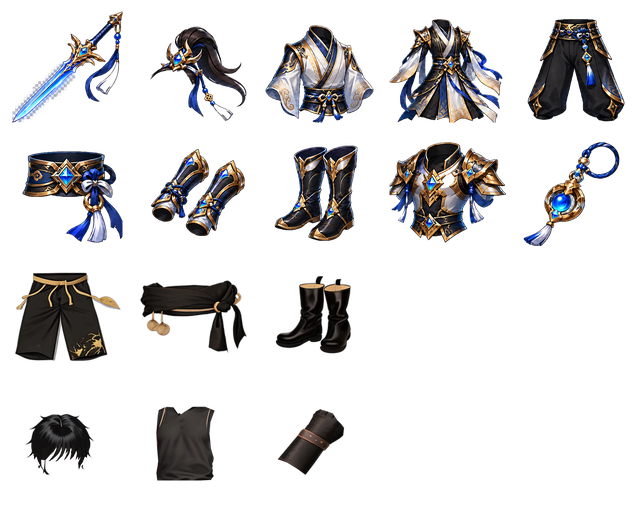
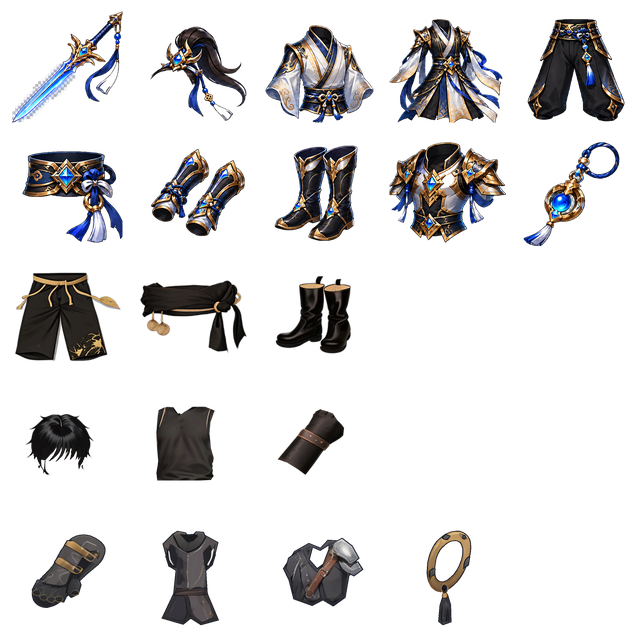
chore: lgo autopilot checkpoint character-hub-v40 - character-hub-vo-starter-four-content-v40
Status: CONTINUE
Phase: character-hub-item-artwork
Next action: Rà độ rõ/nét/ánh sáng toàn10icon theo demo ở ô nhỏ; tiếp tục Skill demo alignment và Hỏa Tuyến/Thanh Tẩy qua base chung, không sửa actor/gameplay.
Reason: Bốn nội dung mới đã có trong Player, đủ10exact Vo maleLv1; đã audit3viewport và kiểm closure. Chưa nghiệm thu toàn bộ mỹ thuật.

Validation:
- 313/313 graphics evidence revalidated
- 69/69 Python fresh closure plus3guards
- 132capturedPNG verified;15images reviewed across v40
- 16prior modules RGBA exact;10bindings;PNG248683/250000
- PortableZIP/hash/PNG replay verified;no new build in closure

diff --git a/client/Unity/Assets/Game/Tests/EditMode/TwoDCharacterRuntimeStateTests.cs b/client/Unity/Assets/Game/Tests/EditMode/TwoDCharacterRuntimeStateTests.cs
@@ -144,7 +144,7 @@ namespace LinhGioi.Tests.EditMode
             {
                 var host = new GameObject("reviewed starter item art test");
                 var scene = CongDongLamMap01AArtPreview.Attach(TwoDOnboardingController.Attach(host));
-                foreach (var slot in new[] { "lower_garment", "waist", "boots", "head_hair", "inner_top", "arm_guard" })
+                foreach (var slot in new[] { "lower_garment", "waist", "boots", "head_hair", "inner_top", "arm_guard", "main_weapon", "outer_tunic", "light_armor", "accessory" })
                 {
                     Assert.That(scene.ActiveEquipmentClassId, Is.EqualTo("vo"));
                     Assert.That(scene.CharacterGender, Is.EqualTo("male"));
@@ -187,7 +187,7 @@ namespace LinhGioi.Tests.EditMode
                     {
                         Assert.That(scene.GetMap01ACharacterEquipmentIconSprite(slot), Is.Not.Null,
                             "Source slot illustrations remain available for registration, not deleted.");
-                        var expected = classId == "vo" && new[] { "lower_garment", "waist", "boots", "head_hair", "inner_top", "arm_guard" }.Contains(slot);
+                        var expected = classId == "vo" && new[] { "lower_garment", "waist", "boots", "head_hair", "inner_top", "arm_guard", "main_weapon", "outer_tunic", "light_armor", "accessory" }.Contains(slot);
                         var content = scene.GetEquipmentThumbnailSprite(slot);
                         Assert.That(content != null, Is.EqualTo(expected), classId + "/" + slot);
                         if (expected) Assert.That(content, Is.Not.SameAs(scene.GetMap01ACharacterEquipmentIconSprite(slot)));
@@ -450,7 +450,7 @@ namespace LinhGioi.Tests.EditMode
                 Assert.That(root.Q("Map01A Character Hero Right Equipment Rail").style.width.value.value, Is.EqualTo(76));
                 foreach (var slot in scene.VoEquipmentSlotIds)
                 {
-                    var registered = new[] { "lower_garment", "waist", "boots", "head_hair", "inner_top", "arm_guard" }.Contains(slot)
+                    var registered = new[] { "lower_garment", "waist", "boots", "head_hair", "inner_top", "arm_guard", "main_weapon", "outer_tunic", "light_armor", "accessory" }.Contains(slot)
                         && scene.ActiveEquipmentClassId == "vo" && scene.CharacterGender == "male" && scene.GetEquipmentItemLevel(slot) == 1;
                     var content = scene.GetVoEquipmentThumbnailSprite(slot);
                     Assert.That(content != null, Is.EqualTo(registered), slot);
@@ -927,7 +927,7 @@ namespace LinhGioi.Tests.EditMode
                 {
                     var slotId = scene.VoEquipmentSlotIds[iconIndex];
                     var expectedIcon = scene.GetVoEquipmentThumbnailSprite(slotId);
-                    var registered = new[] { "lower_garment", "waist", "boots", "head_hair", "inner_top", "arm_guard" }.Contains(slotId)
+                    var registered = new[] { "lower_garment", "waist", "boots", "head_hair", "inner_top", "arm_guard", "main_weapon", "outer_tunic", "light_armor", "accessory" }.Contains(slotId)
                         && scene.ActiveEquipmentClassId == "vo" && scene.CharacterGender == "male" && scene.GetEquipmentItemLevel(slotId) == 1;
                     Assert.That(expectedIcon != null, Is.EqualTo(registered), slotId);
                     if (registered) Assert.That(expectedIcon, Is.Not.SameAs(scene.GetMap01ACharacterEquipmentIconSprite(slotId)));

diff --git a/docs/execution/NEXT-ACTION.md b/docs/execution/NEXT-ACTION.md
@@ -1,28 +1,28 @@
-# NEXT ACTION — Character Hub / nội dung trang bị đúng demo
+# NEXT ACTION — Character Hub / nội dung icon đúng demo
 
-## Active — hoàn thiện bốn nguồn Võ còn thiếu và độ rõ mỹ thuật theo nhóm
-- Giữ worktree `/Users/minhdc/Projects/LinhGioiOnline/.worktrees/character-hub-v22`, branch `codex/character-hub-v22`, upstream `feature/2d`; không reset/restore/đổi branch.
-- SID `S-LGO-SKILL-20260916-C9B4`, task `T-69b4b27c4b39`; check pause/recovery/job/claims trước batch. Không tác động phiên khác; kết thúc WAITING_USER/BLOCKED.
-- Canonical layout vẫn `redesign-v4-five-tabs`. Class demo là nguồn hình, không tự đổi ID/tên/cấp/chức năng gameplay hoặc actor/pose/wardrobe/renderer/frozen.
+## Active — đồng nhất chất lượng nguồn trên base hiện hành
+- Giữ worktree `/Users/minhdc/Projects/LinhGioiOnline/.worktrees/character-hub-v22`, branch `codex/character-hub-v22`, upstream `feature/2d`. Không reset, restore hoặc đổi branch/worktree.
+- SID `S-LGO-SKILL-20260916-C9B4`, task `T-69b4b27c4b39`. Trước mỗi batch kiểm pause/recovery/job/claims; không tác động process hoặc claim phiên khác. Cuối lượt dùng `v3.finish` và WAITING_USER/BLOCKED đúng kết quả.
+- Canonical UI vẫn `redesign-v4-five-tabs`; demo class là căn cứ hình ảnh, không tự đổi tên/cấp/chức năng gameplay. Actor/pose/wardrobe/renderer và frozen surfaces không thuộc batch.
 
-## v39 — ba nguồn đã loại cơ thể, cùng base và registry exact
-- Baseline1f90b2cd (v38) có3icon quần/đai/giày. Thêm tóc, áo trong, hộ uyển cho đúngVõ–male–Lv1; tổng6/10binding. Chưa thêm găng/áo ngoài/giáp/phụ kiện.
-- Sửa alpha trên nguồn384px v38: bỏ mặt/cổ giữa tóc; cắt tay và đai riêng khỏi áo; bỏ cẳng tay/ngón khỏi hộ uyển. Nguồn/mask/hash/rectdemo được giữ; không đưa nguyên bản bịloại vào game, không sinh ảnh mới.
-- Cuối batch giữ nguyên tọa độ native384, một viewport256→120trongcell128; không bbox-fit hoặc offsetUI. LượtPlayer đầu cho thấy thu0.875theonhóm là thừa nên đã bỏ, build/capture lần2 có trigger rõ. Găng còn họa tiết mặttrời lệchdemo; áo ngoài clone tạo tieslặp nên không nhập.
-- Packer hiện hành thêm encodingOPT-IN rgbStep4: sai sốtừngkênhRGB≤2/255, alpha/hình học không đổi; lặp lại không cộng dồn sai số. Default vẫn khôngnénRGB. Đây KHÔNG phải losslessRGB, KHÔNG claim13module cũ byte-identical.
-- Atlas640×512/218150byte,16module,6binding; trước là640×384/238156byte. Giữ budget250000. PNGnhỏ hơn không đồng nghĩaGPUmemory giảm vì heighttăng.
-- Fullgraphics313/313noskip;72Python (69repo+3sourceprobes). RED→GREEN: encoding/metadata, knownbodypixels và spriteavailability. Missing-state test dùng fixture rỗng rõ ràng, không mặc định tóc luôn thiếu khi catalog tăng.
-- Hai build/capture tronglượt; final là `player-reviewed/` và `runtime-reviewed/`,132ảnh. Đãxem12ảnh cuối:Nhânvật+3mónselected ở3viewport. Build cuối0error0warning; không cóinference/model mới.
-- Không thấy cắt/chồng hoặc notice sai trên3món. Tóc/vải còn tối trongôtablet; chưa owner/whole-art acceptance. Actor hiện hành không thay, không claimđồ trênngười đãkhớp toànbộdemo.
+## v40 — đã nhập đủ 10 icon Võ nam Lv1; chưa nghiệm thu toàn mỹ thuật
+- Bổ sung găng, áo ngoài, giáp vai/ngực bất đối xứng và vòng đồng tua đen theo cột Lv1 demo Võ nam. Không nhập lại các draft dính cơ thể, họa tiết mặt trời hoặc phụ kiện sai loại.
+- Bốn hình dựng rỗng native384, một lượt hoàn thiện chất liệu local, khóa alpha và bảo vệ viền ngoài từ hình dựng. Canvas384/viewport256→120 trong cell128 dùng chung; không scale/offset riêng trong UI.
+- Cộng sáu registration v39: đủ10/10 nội dung cho exact Võ–male–Lv1. Các class/giới/cấp khác không mượn; renderer trên người giữ nguyên, không claim toàn bộ đồ đang mặc khớp thumbnail.
+- Atlas640×640/248683byte, ngân sách250000 không tăng;20module. Toàn bộ16module và6binding cũ giữ nguyên. RGBround4 là encoding đã có, không phải lossless cho nguồn mới; alpha chính xác. Texture cao hơn không có nghĩa giảm bộ nhớ GPU.
+- Full graphics EditMode313/313 không fail/skip; test thiếu găng RED rồi GREEN sau nhập. Một Player build v40 có0error/0warning và132ảnh,44ảnh mỗi viewport.
+- Lượt trước xem10ảnh PC/mobile; closure đã xem thêm5ảnh tablet. Không thấy cắt/chồng mới hoặc notice thiếu ảnh ở bốn món; áo và tua đen vẫn nhỏ/tối trong ô tablet, hình mới còn góc cạnh và chưa đồng nhất toàn bộ nét/nền/độ sáng.
+- Closure chạy lại69/69 Python và3guard, kiểm132PNG/manifest/kích thước, replay/hash/source/ZIP. Không sinh nguồn, build hoặc capture lại khi input runtime không đổi.
+- Các chặn tool cũ và log RED vẫn giữ riêng làm lịch sử. Không suy ra phiên khác chỉ từ chuỗi finish/report event. Thao tác package đã hoàn tất qua đường công cụ hiện hành, không đổi cấu hình MCP.
 
 ## Bước tiếp theo
-1. Găng/áo ngoài phải redraw đúngdemo, không dínhbody hoặc ghépđai/ties; giáp/phụkiện phải đúngloạiđồLv1. Không dùng bảnbịloại đểlấp hoặc bỏ metadataownership.
-2. Cải thiện ánhsáng/độrõ cảbộ nguồn ở kíchthước hiểnthị, không phóngtừngicon bằngUI. Giữ nguồnfullprecision, chỉencodingatlas theo profile cókiểmsaisố.
-3. Tiếp tục itemId/class/slot/gender/level và thamchiếudemo bằng pipeline chung; bổsung biếnthể khác chỉkhi đúngnguồn. Bốnclass/giớikhác không mượniconVõ.
-4. Skill vẫn44/45sprite và nhiềuhình lệchdemo; HỏaTuyến/ThanhTẩy và bản sắcclass còn việc. Không coi sốlượngsprite hoặc testPASS lànghiệmthu.
+1. Audit độ rõ của toàn bộ10icon Võ ở kích thước ô nhỏ và so với demo; sửa nguồn theo nhóm, không tint hoặc phóng từng icon trong UI. Không coi10/10 là art acceptance.
+2. Tiếp tục icon Skill có mapping demo rõ, ưu tiên bản sắc Võ/Linh và nội dung còn sai; Hỏa Tuyến còn thiếu, Thanh Tẩy chưa thay. Không sinh chỉ theo9tên catalog hoặc tự sửa ID/cấp khi demo còn mâu thuẫn.
+3. Vật phẩm, slot/category, thuộc tính Tiềm năng, portrait/petSkill là các vai trò riêng. Giữ frame/component chung nhưng đăng ký nội dung theo đúng ownership và nguồn tương ứng.
+4. Chỉ bổ sung class/giới/cấp khác khi có nguồn đủ rõ và exact registration; không sửa renderer hoặc gameplay để làm cho icon có vẻ khớp.
 
-## Evidence / source package
-`build/character-hub-bodyfree-items-v39/`: runtime-review.json, encoding-proof-reviewed.json, reviewed-editmode.xml, source-repairs-native.json, masks-final/, prepared-native/, registry-native.json, runtime-reviewed/, player-reviewed/LinhGioiOnline.app.
-`runtime-final/` và `player-final/` là lượtĐẦU trước bỏshrink, KHÔNG dùng làm bằngchứngcuối. Lỗi proofnative lầnđầu đọc nhầmmanifest đãgiữlog, không bỏhashassertion.
-`lgo-bodyfree-item-icons-v39-authoring.zip` +`.zip.sha256` chứa nguồnđãsửa, mask, raw-reference-only, atlasbase và registryportable; khônggiảinénvàoResources. RGBsource không bịround; PNGtáixuất phải trùnghash. Không kèmfont/model/toolchain.
-`CONTINUE / PARTIAL_BODYFREE_ITEM_ART / VISUAL_FIX_REQUIRED` — chưa nghiệmthu toànCharacterHub hoặc thiếtbịmobile/tabletthật.
+## Evidence và bàn giao
+`build/character-hub-four-item-redraw-v40/`: `prepared-sources/`, `registry.json`, `runtime-review.json`, `closure-proof.json`, `source-hashes.json`, `full-editmode.xml`, `runtime-final/`, `player-final/LinhGioiOnline.app`.
+`lgo-four-item-redraw-v40-authoring.zip` +`.zip.sha256` chứa4nguồn RGBA, atlas nền v39, registry portable, demo chỉ-tham-chiếu và recipe; không có font/model/binary. Không giải nén trực tiếp vào Resources. PortablePNG tái sinh đúng byte; README có lệnh pack vào thư mục mới.
+`checkpoint-receipt.json` là xác minh commit/remote sau checkpoint. Không dùng `blocked.json` cũ làm trạng thái hiện hành.
+`CONTINUE / TEN_VO_STARTER_ITEM_CONTENTS / VISUAL_FIX_REQUIRED` — chưa nghiệm thu Character Hub năm tab hoặc mobile/tablet thiết bị thật.

diff --git a/docs/execution/PROJECT-STATE.md b/docs/execution/PROJECT-STATE.md
@@ -1,3 +1,20 @@
+## Character Hub v40 — bốn nội dung trang bị và closure — 2026-09-16
+
+- Baseline286daf75; giữ codex/character-hub-v22/worktree cũ, SID S-LGO-SKILL-20260916-C9B4 và taskT-69b4b27c4b39. Tiếp tục batchB-a9898e762895, không khởi tạo lại khi lượt trước đã có source/test/Player thật.
+- Găng, áo ngoài, giáp vai/ngực và vòng đồng tua đen Võ nam Lv1 đã nhập qua registry exact. Cộng v39 là10/10binding cho đúng biến thể; không dùng cho class/giới/cấp khác. UI/base/actor/renderer/gameplay không đổi.
+- Hình dựng rỗng native384, một lượt chất liệu local cho4món, alpha và viền được khóa; không crop board vào runtime. Các nguồn/draft/log bị loại giữ riêng.
+- Atlas640×640/248683byte dưới budget250000,20module;16module và6binding cũ RGBA giữ nguyên. Encodinground4 hiện hành không phải losslessRGB từ nguồn mới; alpha chính xác. Height tăng không phải giảmGPUmemory.
+- Một build/capture v40:0error/0warning,132ảnh trên3viewport. Fullgraphics313/313noskip cóREDmissing→GREEN. Đã xem15ảnh: Nhân vật và4mónselected ở3profile; không thấy clipping/notice mới, nhưng áo/tua tối trên tablet và nét chưa đồng nhất hoàn toàn.
+- Closure chạy69/69Python+3guard; verify132PNG/manifests, nguồn/hash/replay/ZIP. Tái sử dụng Unity/Player đã kiểm vì code/asset khớp; không build/capture/generate mới trong lượt chốt.
+- Đã loại đúng9generated Unity drift khỏi source sau khi lưu patch; không rollback class hoặc sửa frozen. Package portable không chứa font/model/secret/binary, PNG tái lập đúng byte. Evidence ở build/character-hub-four-item-redraw-v40/runtime-review.json và closure-proof.json.
+- Các báo lỗi tool và nguồn WIP trước là lịch sử, không trạng thái cuối. Chưa owner/whole-art approval, Skill Hỏa Tuyến/Thanh Tẩy và mismatch demo vẫn còn. CONTINUE / TEN_VO_STARTER_ITEM_CONTENTS / VISUAL_FIX_REQUIRED; xem NEXT-ACTION.
+
+## Character Hub v40 — blocked tại ghi script artwork — 2026-09-16
+
+- Baseline286daf75 đúng và runtime không đổi. File draw_items.py bị write_file từ chối, đọc lại xác nhận chưa tồn tại. Chưa có art/Unity/build/capture/commit/push mới.
+- Preflight không pause/recovery/conflict; 14/14packer và no-source guard PASS. Chỉ có WIP tài liệu điểm tiếp tục, bản atlas/demo snapshot ở build/character-hub-four-item-redraw-v40. Các job kiểm tra đã kết thúc.
+- Điểm chặn: TOOL_WRITE_BLOCKED. Chờ xử lý lỗi ghi công cụ, không đi vòng hoặc nhập draft cũ để lấp.
+
 ## Character Hub v39 — nguồn icon không dính cơ thể — 2026-09-16
 
 - Tiếp tục đúng branch/worktree/task từ 1f90b2cd. Ba icon mới tóc, áo trong và hộ uyển Võ nam Lv1 đã qua nguồn/demo và Player; tổng 6/10 item binding. Không sinh ảnh hoặc sửa actor/pose/wardrobe/renderer/UI base.
